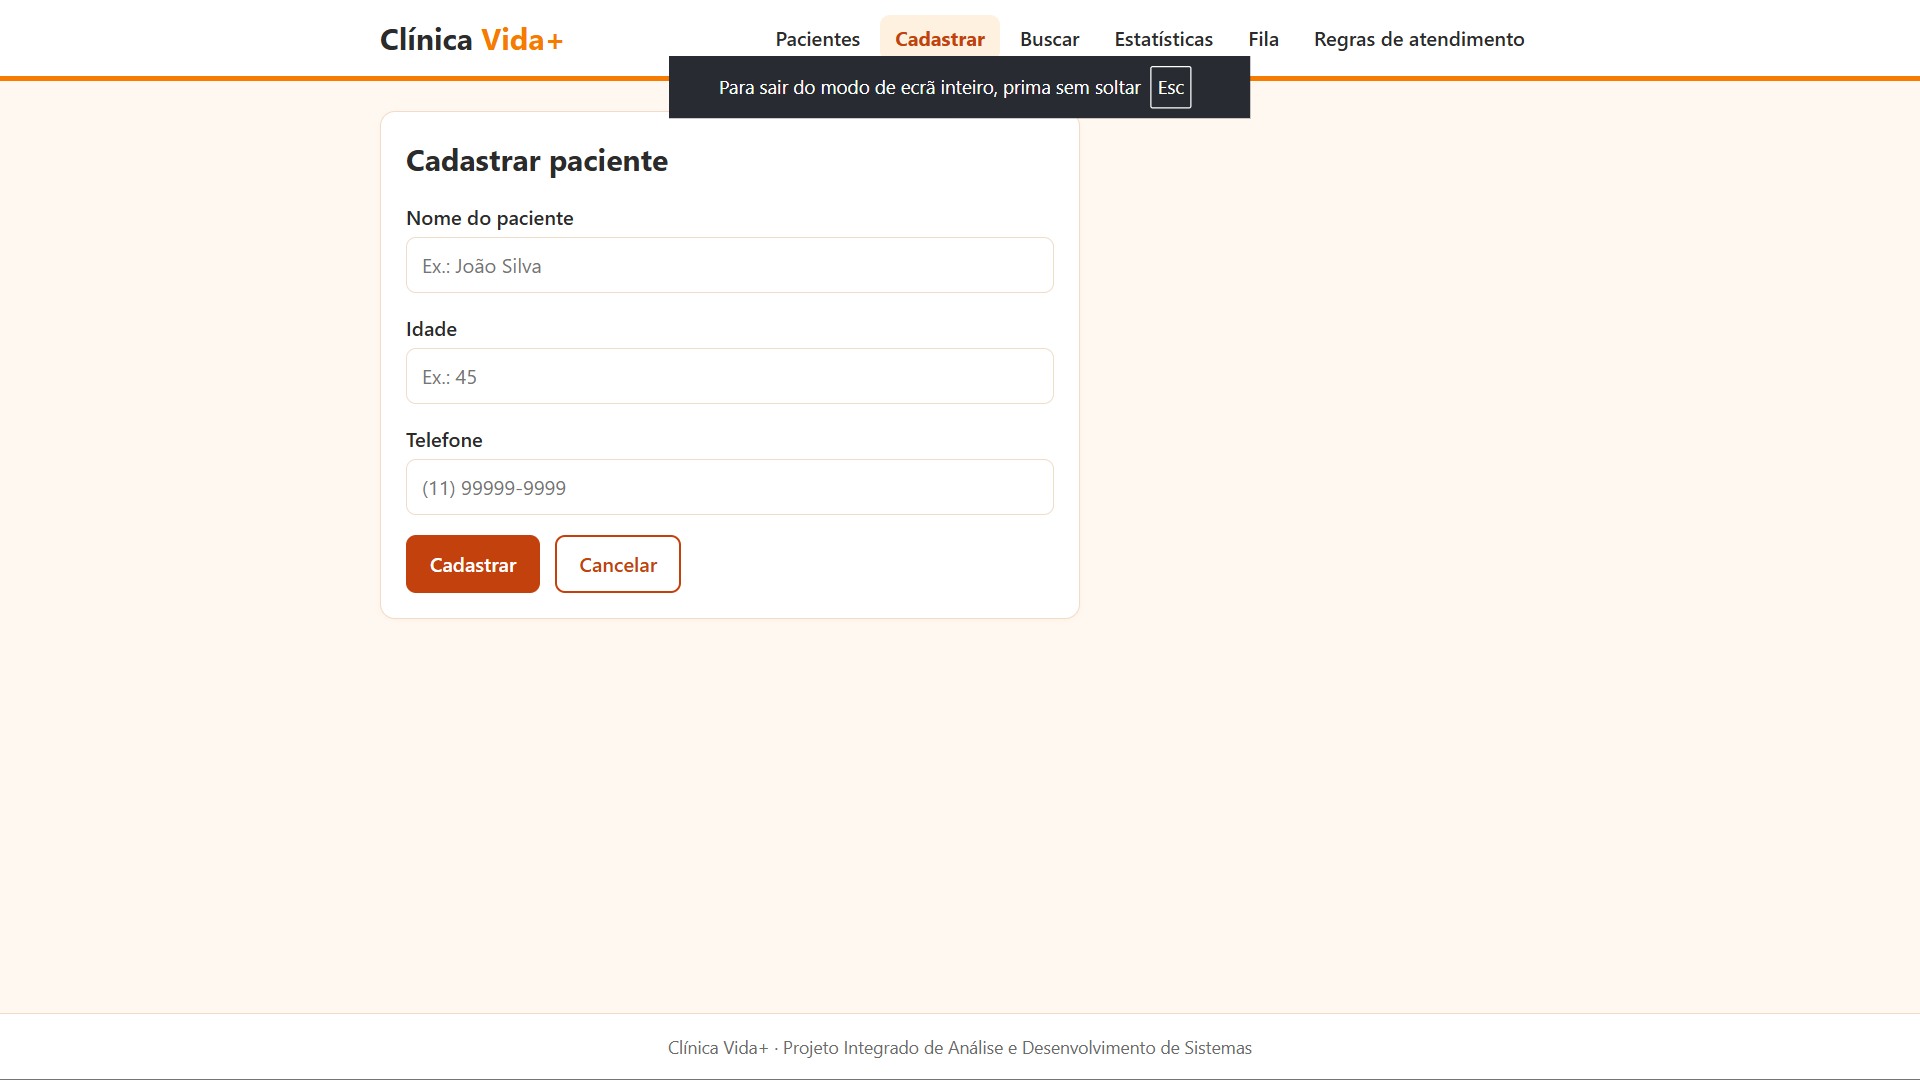
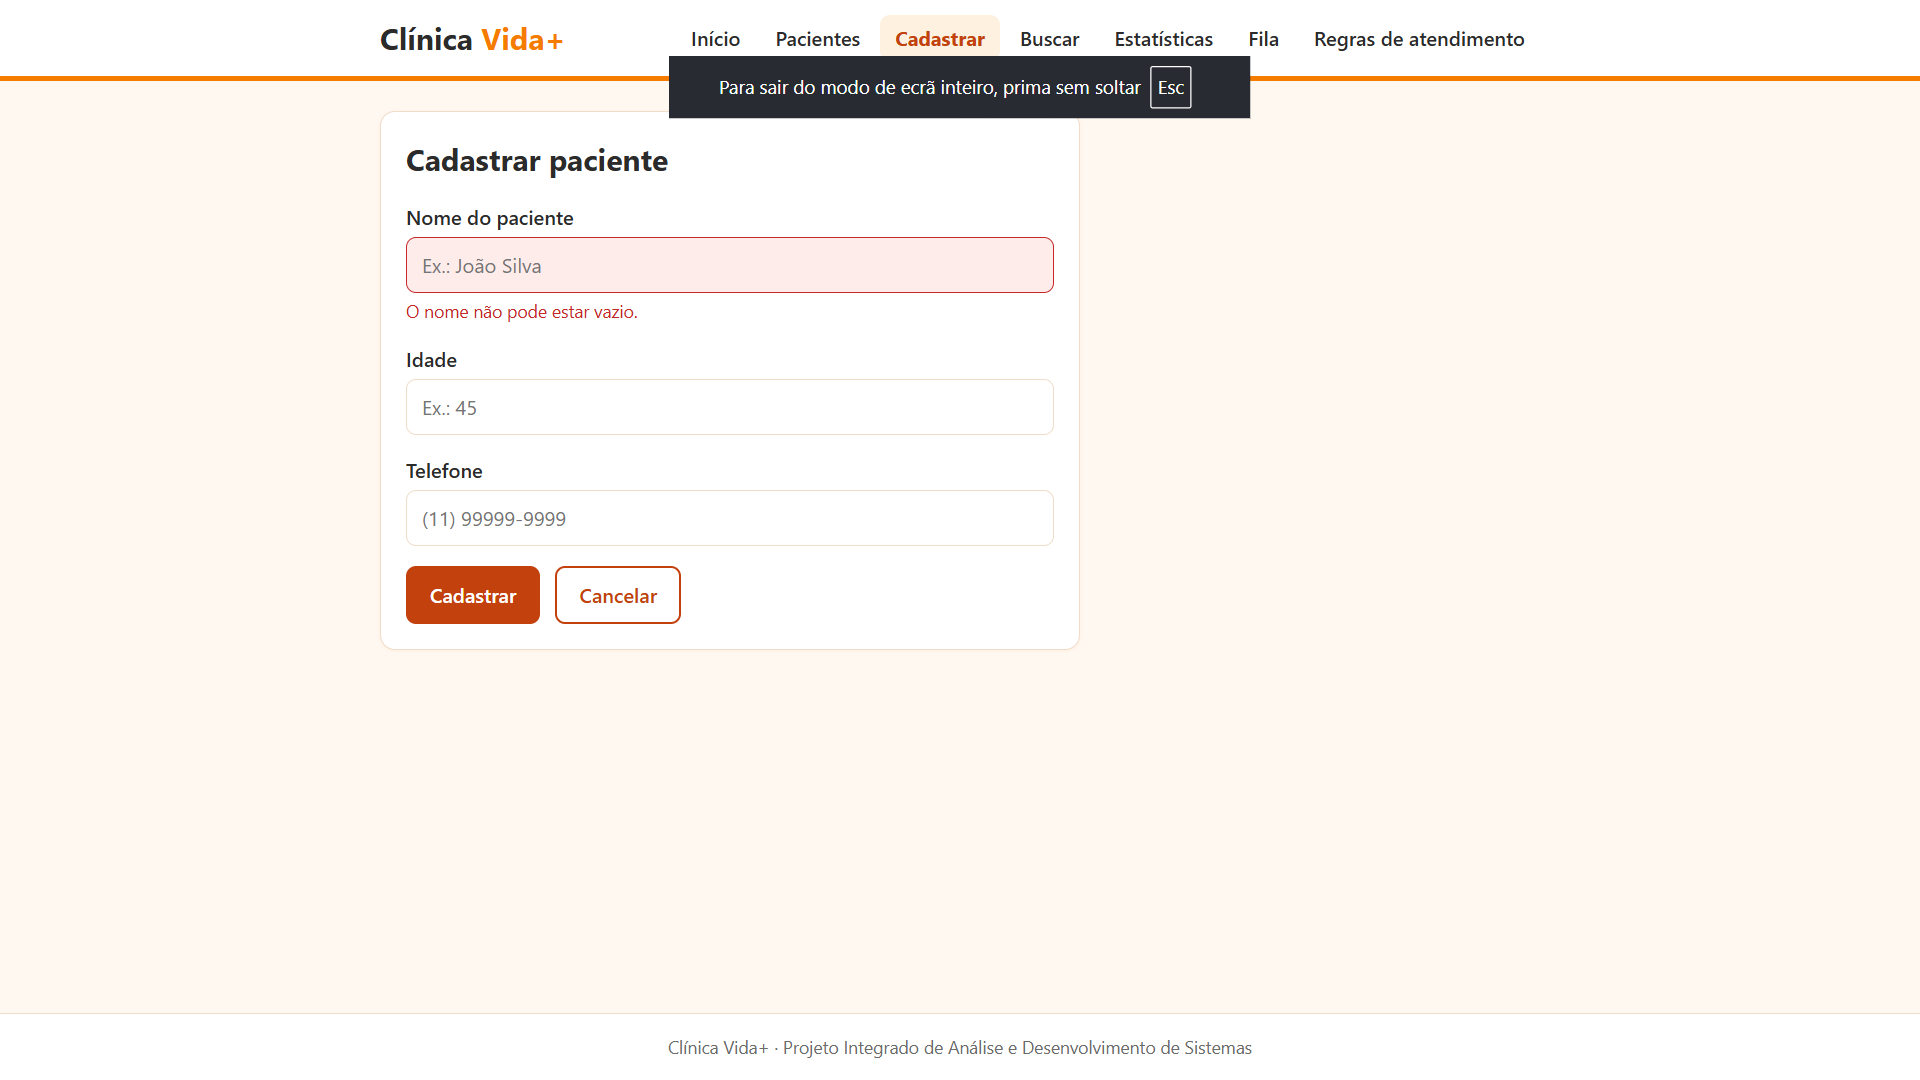
Docs: README atualizado, prints do site, testes e Trello (120 testes)

Changed region(s): [[0.1875, 0.275, 0.375, 0.5806], [0.3438, 0.0306, 0.375, 0.0611]]

diff --git a/README.md b/README.md
@@ -1,77 +1,76 @@
-# Clínica Vida+
+Clínica Vida+
 
 Aplicação web desenvolvida em Python e Flask como projeto de portfólio de Análise e Desenvolvimento de Sistemas (ADS). Demonstra organização modular, cadastro e consulta de pacientes em SQLite, fila de atendimento, regras de negócio, estatísticas e testes automatizados.
 
-- **Demonstração:** https://natanjsoares.pythonanywhere.com
-- **Repositório:** https://github.com/NatanjSoares/clinica-vida
+Demonstração: https://natanjsoares.pythonanywhere.com
+Repositório: https://github.com/NatanjSoares/clinica-vida
 
-> **Aviso importante:** esta é uma demonstração acadêmica/de portfólio. Não utilize para atendimento clínico real nem insira dados pessoais ou de saúde de pacientes. A versão publicada não possui autenticação e autorização adequadas para um sistema de saúde em produção.
+Aviso importante: esta é uma demonstração acadêmica/de portfólio. Não utilize para atendimento clínico real nem insira dados pessoais ou de saúde de pacientes. A versão publicada não possui autenticação e autorização adequadas para um sistema de saúde em produção.
 
-## Funcionalidades implementadas
-
-- Cadastro de pacientes com validação de nome, idade e telefone.
-- Listagem de pacientes.
-- Busca por nome.
-- Estatísticas calculadas a partir dos pacientes cadastrados.
-- Fila de atendimento com entrada e chamada do próximo registro.
-- Avaliação de regras lógicas para consulta normal e emergência.
-- Persistência dos pacientes em banco SQLite.
-
-## Capturas de tela
+Funcionalidades implementadas
+Cadastro de pacientes com validação de nome, idade e telefone.
+Listagem de pacientes.
+Busca por nome.
+Estatísticas calculadas a partir dos pacientes cadastrados.
+Fila de atendimento com entrada e chamada do próximo registro.
+Avaliação de regras lógicas para consulta normal e emergência.
+Persistência dos pacientes em banco SQLite.
+Página inicial com resumo (pacientes, fila e idade média) e atalhos para os módulos.
+Menu de console (cli.py) com as mesmas regras do site.
+Capturas de tela
 
 Capturas da versão publicada, feitas com dados fictícios.
 
-**Lista de pacientes**
+Página inicial
+
+<img src="docs/img/00-pagina-inicial.png" alt="Página inicial com resumo e módulos do sistema" width="720">
+
+Lista de pacientes
 
 <img src="docs/img/01-lista-pacientes.png" alt="Lista de pacientes com filtro" width="720">
 
-**Cadastro com validação de dados**
+Cadastro com validação de dados
 
 <img src="docs/img/02-cadastro-validacao.png" alt="Formulário de cadastro exibindo mensagem de erro de validação" width="720">
 
-**Estatísticas**
+Estatísticas
 
 <img src="docs/img/03-estatisticas.png" alt="Estatísticas: total, idade média, mais novo e mais velho" width="720">
 
-**Fila de atendimento**
+Fila de atendimento
 
 <img src="docs/img/04-fila.png" alt="Fila de atendimento com paciente em atendimento" width="720">
 
-**Regras de atendimento (tabela verdade)**
+Regras de atendimento (tabela verdade)
 
 <img src="docs/img/05-regras.png" alt="Regras de atendimento: consulta normal e emergência" width="720">
+Rotas principais
+Rota	Método	Finalidade
+/	GET	Página inicial com resumo e atalhos
+/pacientes	GET	Lista pacientes
+/pacientes/novo	GET/POST	Formulário e cadastro
+/pacientes/buscar	GET	Busca por nome
+/estatisticas	GET	Exibe estatísticas
+/fila	GET	Exibe a fila
+/fila/entrar	POST	Adiciona à fila
+/fila/proximo	POST	Chama o próximo
+/regras	GET/POST	Exibe e avalia regras lógicas
+Tecnologias
+Python 3.13
+Flask 3.1.3
+SQLite
+HTML, CSS e JavaScript
+pytest 9.2.0
+Git e GitHub
+PythonAnywhere
 
-## Rotas principais
+As versões das dependências estão registradas em requirements.txt.
 
-| Rota | Método | Finalidade |
-|---|---|---|
-| `/` | GET | Redireciona para a listagem |
-| `/pacientes` | GET | Lista pacientes |
-| `/pacientes/novo` | GET/POST | Formulário e cadastro |
-| `/pacientes/buscar` | GET | Busca por nome |
-| `/estatisticas` | GET | Exibe estatísticas |
-| `/fila` | GET | Exibe a fila |
-| `/fila/entrar` | POST | Adiciona à fila |
-| `/fila/proximo` | POST | Chama o próximo |
-| `/regras` | GET/POST | Exibe e avalia regras lógicas |
-
-## Tecnologias
-
-- Python 3.13
-- Flask 3.1.3
-- SQLite
-- HTML, CSS e JavaScript
-- pytest 9.2.0
-- Git e GitHub
-- PythonAnywhere
-
-As versões das dependências estão registradas em `requirements.txt`.
-
-## Estrutura
-
-```text
+Estrutura
+text
 clinica-vida/
 ├── app.py                 # Aplicação Flask e rotas
+├── cli.py                 # Menu de console
 ├── db.py                  # Conexão e criação das tabelas SQLite
 ├── models.py              # Modelo Paciente
 ├── pacientes.py           # Operações de pacientes
@@ -92,108 +91,116 @@ clinica-vida/
     ├── der_clinica_vida.svg
     ├── relatorio-atividades-deploy.md
     └── img/               # capturas de tela usadas neste README
-```
-
-## Executar localmente
-
-### 1. Clonar
-
-```bash
+Executar localmente
+1. Clonar
+bash
 git clone https://github.com/NatanjSoares/clinica-vida.git
 cd clinica-vida
-```
-
-### 2. Criar e ativar ambiente virtual
+2. Criar e ativar ambiente virtual
 
 Windows PowerShell:
 
-```powershell
+powershell
 python -m venv venv
 .\venv\Scripts\Activate.ps1
-```
 
 Linux/macOS:
 
-```bash
+bash
 python3 -m venv venv
 source venv/bin/activate
-```
-
-### 3. Instalar dependências
-
-```bash
+3. Instalar dependências
+bash
 python -m pip install -r requirements.txt
-```
+4. Criar diretório do banco
 
-### 4. Criar diretório do banco
-
-O caminho padrão do banco é `instance/clinica.db`. Crie a pasta antes de iniciar:
+O caminho padrão do banco é instance/clinica.db. Crie a pasta antes de iniciar:
 
 PowerShell:
 
-```powershell
+powershell
 New-Item -ItemType Directory -Force instance | Out-Null
-```
 
 Linux/macOS:
 
-```bash
+bash
 mkdir -p instance
-```
-
-### 5. Executar
-
-```bash
+5. Executar
+bash
 python app.py
-```
 
 Abra no navegador o endereço local indicado pelo Flask.
 
-## Testes
+6. Menu de console (opcional)
+bash
+python cli.py
+
+O menu repete até a opção 5 (Sair). Para usar outro banco, informe o caminho: python cli.py caminho/do/banco.db.
+
+Testes
 
 Com o ambiente virtual ativado:
 
-```bash
+bash
 python -m pytest -v
-```
 
-**Resultado registrado em 30/10/2026 no PythonAnywhere:** `101 passed in 2.38s`.
+Resultado registrado em 24/11/2026 no PythonAnywhere: 120 passed in 4.99s.
+
+<img src="docs/img/06-testes-pythonanywhere.png" alt="Console do PythonAnywhere com 120 testes aprovados" width="720">
+
+Execução local, no Visual Studio Code, com o mesmo resultado:
+
+<img src="docs/img/07-testes-local-vscode.png" alt="Terminal do VS Code com 120 testes aprovados" width="720">
 
 Esse resultado confirma a aprovação dos testes automatizados executados naquele ambiente e momento; não equivale a auditoria de segurança nem garante ausência de problemas operacionais.
 
-## Banco de dados e proteção de dados
+Banco de dados e proteção de dados
 
-A aplicação utiliza SQLite. O banco padrão fica em `instance/clinica.db`. O banco do servidor é independente do banco local. O banco local não foi enviado ao GitHub nem migrado para a hospedagem.
+A aplicação utiliza SQLite. O banco padrão fica em instance/clinica.db. O banco do servidor é independente do banco local. O banco local não foi enviado ao GitHub nem migrado para a hospedagem.
 
-O `.gitignore` exclui ambientes virtuais, caches, bancos SQLite e o arquivo `.env`. Não remova essas proteções e não publique segredos ou dados pessoais.
+O .gitignore exclui ambientes virtuais, caches, bancos SQLite e o arquivo .env. Não remova essas proteções e não publique segredos ou dados pessoais.
 
-## Implantação no PythonAnywhere
+Implantação no PythonAnywhere
 
 A demonstração foi configurada manualmente com:
 
-- Python 3.13;
-- ambiente virtual em `/home/NatanJSoares/clinica-vida/venv`;
-- dependências instaladas por `pip install -r requirements.txt`;
-- Source code e Working directory apontando para `/home/NatanJSoares/clinica-vida`;
-- WSGI importando `create_app()` de `app.py`;
-- `APP_ENV=production` e `SECRET_KEY` carregadas no WSGI a partir de arquivo `.env` local, não versionado;
-- diretório `instance` criado no servidor para permitir a gravação do banco.
+Python 3.13;
+ambiente virtual em /home/NatanJSoares/clinica-vida/venv;
+dependências instaladas por pip install -r requirements.txt;
+Source code e Working directory apontando para /home/NatanJSoares/clinica-vida;
+WSGI importando create_app() de app.py;
+APP_ENV=production e SECRET_KEY carregadas no WSGI a partir de arquivo .env local, não versionado;
+diretório instance criado no servidor para permitir a gravação do banco.
 
-O arquivo `.env` contém segredo de aplicação: não o publique, não o inclua em capturas de tela e não o envie pelo GitHub. Se houver suspeita de exposição, gere outra chave e atualize a configuração.
+O arquivo .env contém segredo de aplicação: não o publique, não o inclua em capturas de tela e não o envie pelo GitHub. Se houver suspeita de exposição, gere outra chave e atualize a configuração.
 
-O clone hospedado não é atualizado automaticamente quando há alterações no GitHub. Para publicar uma nova versão, atualize o clone no console do PythonAnywhere e depois use **Reload** na aba **Web**.
+O clone hospedado não é atualizado automaticamente quando há alterações no GitHub. Para publicar uma nova versão, atualize o clone no console do PythonAnywhere e depois use Reload na aba Web.
 
-## Limitações conhecidas e próximos passos
-
-- A fila é mantida em memória e pode ser perdida quando a aplicação é reiniciada; não há persistência da fila no SQLite.
-- A versão publicada não possui autenticação, perfis ou controle de permissões.
-- Apenas a tabela `pacientes` está implementada no banco atual.
-- Médico, Exame, Agendamento, Atendimento e Fatura são propostas de evolução documentadas no DER, não tabelas implementadas.
-- Antes de qualquer uso real, são necessários controles de segurança, privacidade, autorização, backup e operação.
+Limitações conhecidas e próximos passos
+A fila é mantida em memória e pode ser perdida quando a aplicação é reiniciada; não há persistência da fila no SQLite.
+A versão publicada não possui autenticação, perfis ou controle de permissões.
+Apenas a tabela pacientes está implementada no banco atual.
+Médico, Exame, Agendamento, Atendimento e Fatura são propostas de evolução documentadas no DER, não tabelas implementadas.
+Antes de qualquer uso real, são necessários controles de segurança, privacidade, autorização, backup e operação.
 
 Evoluções possíveis: autenticação e autorização, persistência da fila, edição e exclusão de pacientes, implementação das entidades propostas no DER e testes de segurança.
 
-## Documentação adicional
+Gestão do projeto (Scrum no Trello)
 
-- [Diagrama Entidade-Relacionamento](docs/der-clinica-vida.md)
-- [Relatório de atividades de desenvolvimento e implantação](docs/relatorio-atividades-deploy.md)
+O projeto foi acompanhado em um quadro do Trello com as listas Backlog, Sprint Atual, Em Progresso e Concluído. O Backlog guarda o que está previsto e ainda não foi desenvolvido (médicos, exames, agendamento, atendimentos, cobranças, relatório mensal, usuários e backup); o Concluído guarda apenas o que está implementado e testado.
+
+Quadro geral
+
+<img src="docs/img/08-trello-quadro-geral.png" alt="Quadro do Trello com as listas Backlog, Sprint Atual, Em Progresso e Concluído" width="720">
+
+Sprints (duração planejada de 2 semanas; o período real de cada uma está no comentário do cartão)
+
+Sprint	Objetivo	Período real
+1	Cadastros básicos	28/10 a 29/10/2026
+2	Agendamento e atendimentos (regras de acesso e fila)	29/10/2026
+3	Relatórios e estatísticas	29/10/2026
+4	Interface, qualidade e publicação	29/10 a 24/11/2026
+<img src="docs/img/09-trello-sprint-1.png" alt="Cartão da Sprint 1 no Trello" width="560"> <img src="docs/img/10-trello-sprint-2.png" alt="Cartão da Sprint 2 no Trello" width="560"> <img src="docs/img/11-trello-sprint-3.png" alt="Cartão da Sprint 3 no Trello" width="560"> <img src="docs/img/12-trello-sprint-4.png" alt="Cartão da Sprint 4 no Trello" width="560">
+Documentação adicional
+Diagrama Entidade-Relacionamento
+Relatório de atividades de desenvolvimento e implantação
